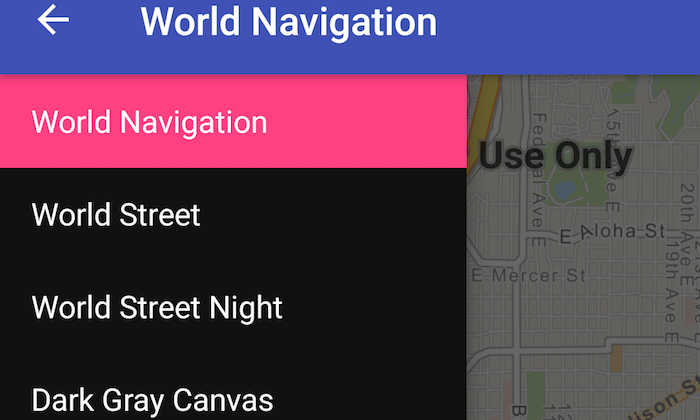
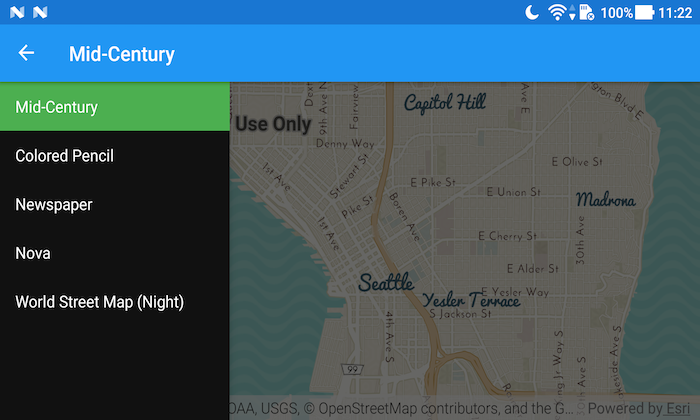
Trev8939/vector tiled layer update (#447)
* initial commit

* undo code reordering

* code reorder and format fix

* format fix

* update README and screenshot

diff --git a/java/arcgis-vectortiledlayer-url/src/main/java/com/esri/arcgisruntime/sample/arcgisvectortiledlayerurl/MainActivity.java b/java/arcgis-vectortiledlayer-url/src/main/java/com/esri/arcgisruntime/sample/arcgisvectortiledlayerurl/MainActivity.java
@@ -1,4 +1,4 @@
-/* Copyright 2016 Esri
+/* Copyright 2018 Esri
  *
  * Licensed under the Apache License, Version 2.0 (the "License");
  * you may not use this file except in compliance with the License.
@@ -50,11 +50,10 @@ public class MainActivity extends AppCompatActivity {
     setContentView(R.layout.activity_main);
 
     // inflate MapView from layout
-    mMapView = (MapView) findViewById(R.id.mapView);
+    mMapView = findViewById(R.id.mapView);
 
     // create new Vector Tiled Layer from service url
-    mVectorTiledLayer = new ArcGISVectorTiledLayer(
-        getResources().getString(R.string.navigation_url));
+    mVectorTiledLayer = new ArcGISVectorTiledLayer(getString(R.string.mid_century_url));
 
     // set tiled layer as basemap
     Basemap basemap = new Basemap(mVectorTiledLayer);
@@ -69,8 +68,8 @@ public class MainActivity extends AppCompatActivity {
 
     // inflate navigation drawer
     mNavigationDrawerItemTitles = getResources().getStringArray(R.array.vector_tiled_types);
-    mDrawerLayout = (DrawerLayout) findViewById(R.id.drawer_layout);
-    mDrawerList = (ListView) findViewById(R.id.left_drawer);
+    mDrawerLayout = findViewById(R.id.drawer_layout);
+    mDrawerList = findViewById(R.id.left_drawer);
 
     // Set the adapter for the list view
     mDrawerList.setAdapter(new ArrayAdapter<>(this,
@@ -83,8 +82,10 @@ public class MainActivity extends AppCompatActivity {
 
     setupDrawer();
 
-    getSupportActionBar().setDisplayHomeAsUpEnabled(true);
-    getSupportActionBar().setHomeButtonEnabled(true);
+    if (getSupportActionBar() != null) {
+      getSupportActionBar().setDisplayHomeAsUpEnabled(true);
+      getSupportActionBar().setHomeButtonEnabled(true);
+    }
     setTitle(getString(R.string.vector_tiled_layer, mNavigationDrawerItemTitles[0]));
   }
 
@@ -122,16 +123,19 @@ public class MainActivity extends AppCompatActivity {
 
     switch (position) {
       case 0:
-        vectorTiledLayerUrl = getResources().getString(R.string.navigation_url);
+        vectorTiledLayerUrl = getString(R.string.mid_century_url);
         break;
       case 1:
-        vectorTiledLayerUrl = getResources().getString(R.string.night_url);
+        vectorTiledLayerUrl = getString(R.string.colored_pencil_url);
         break;
       case 2:
-        vectorTiledLayerUrl = getResources().getString(R.string.light_gray_url);
+        vectorTiledLayerUrl = getString(R.string.newspaper_url);
         break;
       case 3:
-        vectorTiledLayerUrl = getResources().getString(R.string.dark_gray_url);
+        vectorTiledLayerUrl = getString(R.string.nova_url);
+        break;
+      case 4:
+        vectorTiledLayerUrl = getString(R.string.world_street_night_url);
         break;
     }
     // create the new vector tiled layer using the url
@@ -189,5 +193,5 @@ public class MainActivity extends AppCompatActivity {
     // Activate the navigation drawer toggle
     return (mDrawerToggle.onOptionsItemSelected(item)) || super.onOptionsItemSelected(item);
   }
-
+  
 }

diff --git a/java/arcgis-vectortiledlayer-url/README.md b/java/arcgis-vectortiledlayer-url/README.md
@@ -2,7 +2,7 @@
 
 ![ArcGIS VectorTiledLayer](arcgis-vectortiledlayer.png)
 
-The ArcGIS Vector Tiled Layer URL app uses Vector Tiled Layer basemap from an ArcGIS Online service URL.
+This app creates `Basemap`s from an `ArcGISVectorTiledLayer` which is pointed to an ArcGIS Vector Tile Service.
 It shows how to inflate a `MapView` in the layout XML of the activity, creates a `ArcGISVectorTiledLayer` from an ArcGIS Online service URL and bind that to a `Basemap`.  The `Basemap` is used to create a `Map` which is used inside of the `MapView`. It uses Android Navigation drawer to switch between different Vector Tiled Layers. By default, this map supports basic zooming and panning operations.
 
 ## Features
